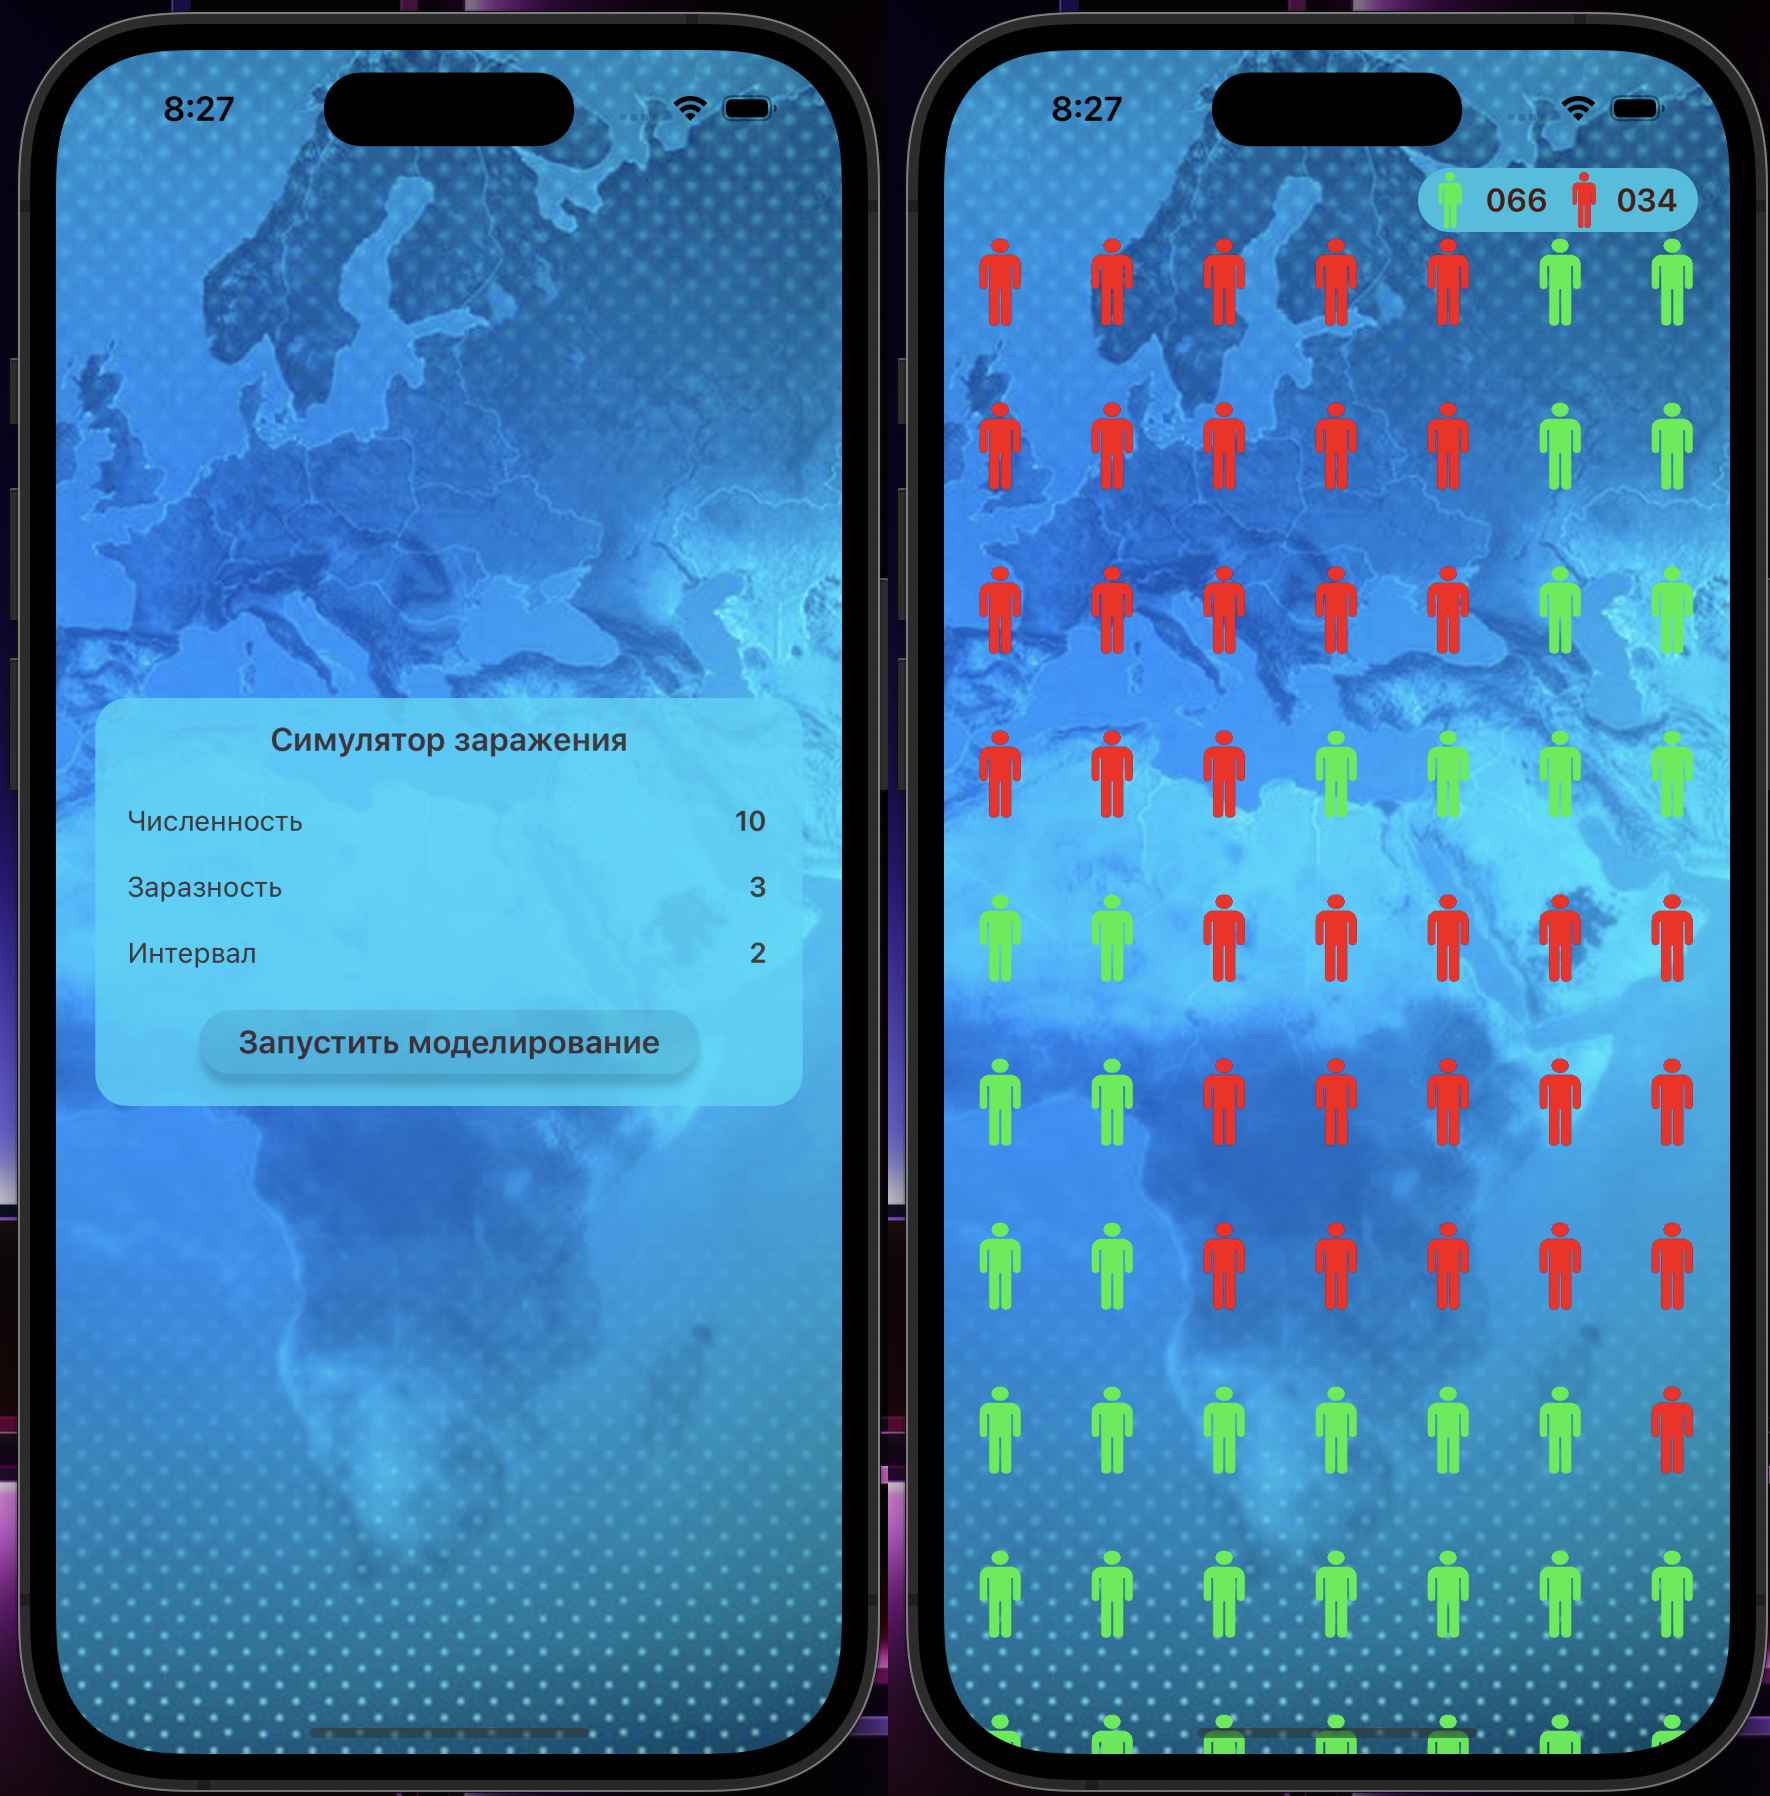
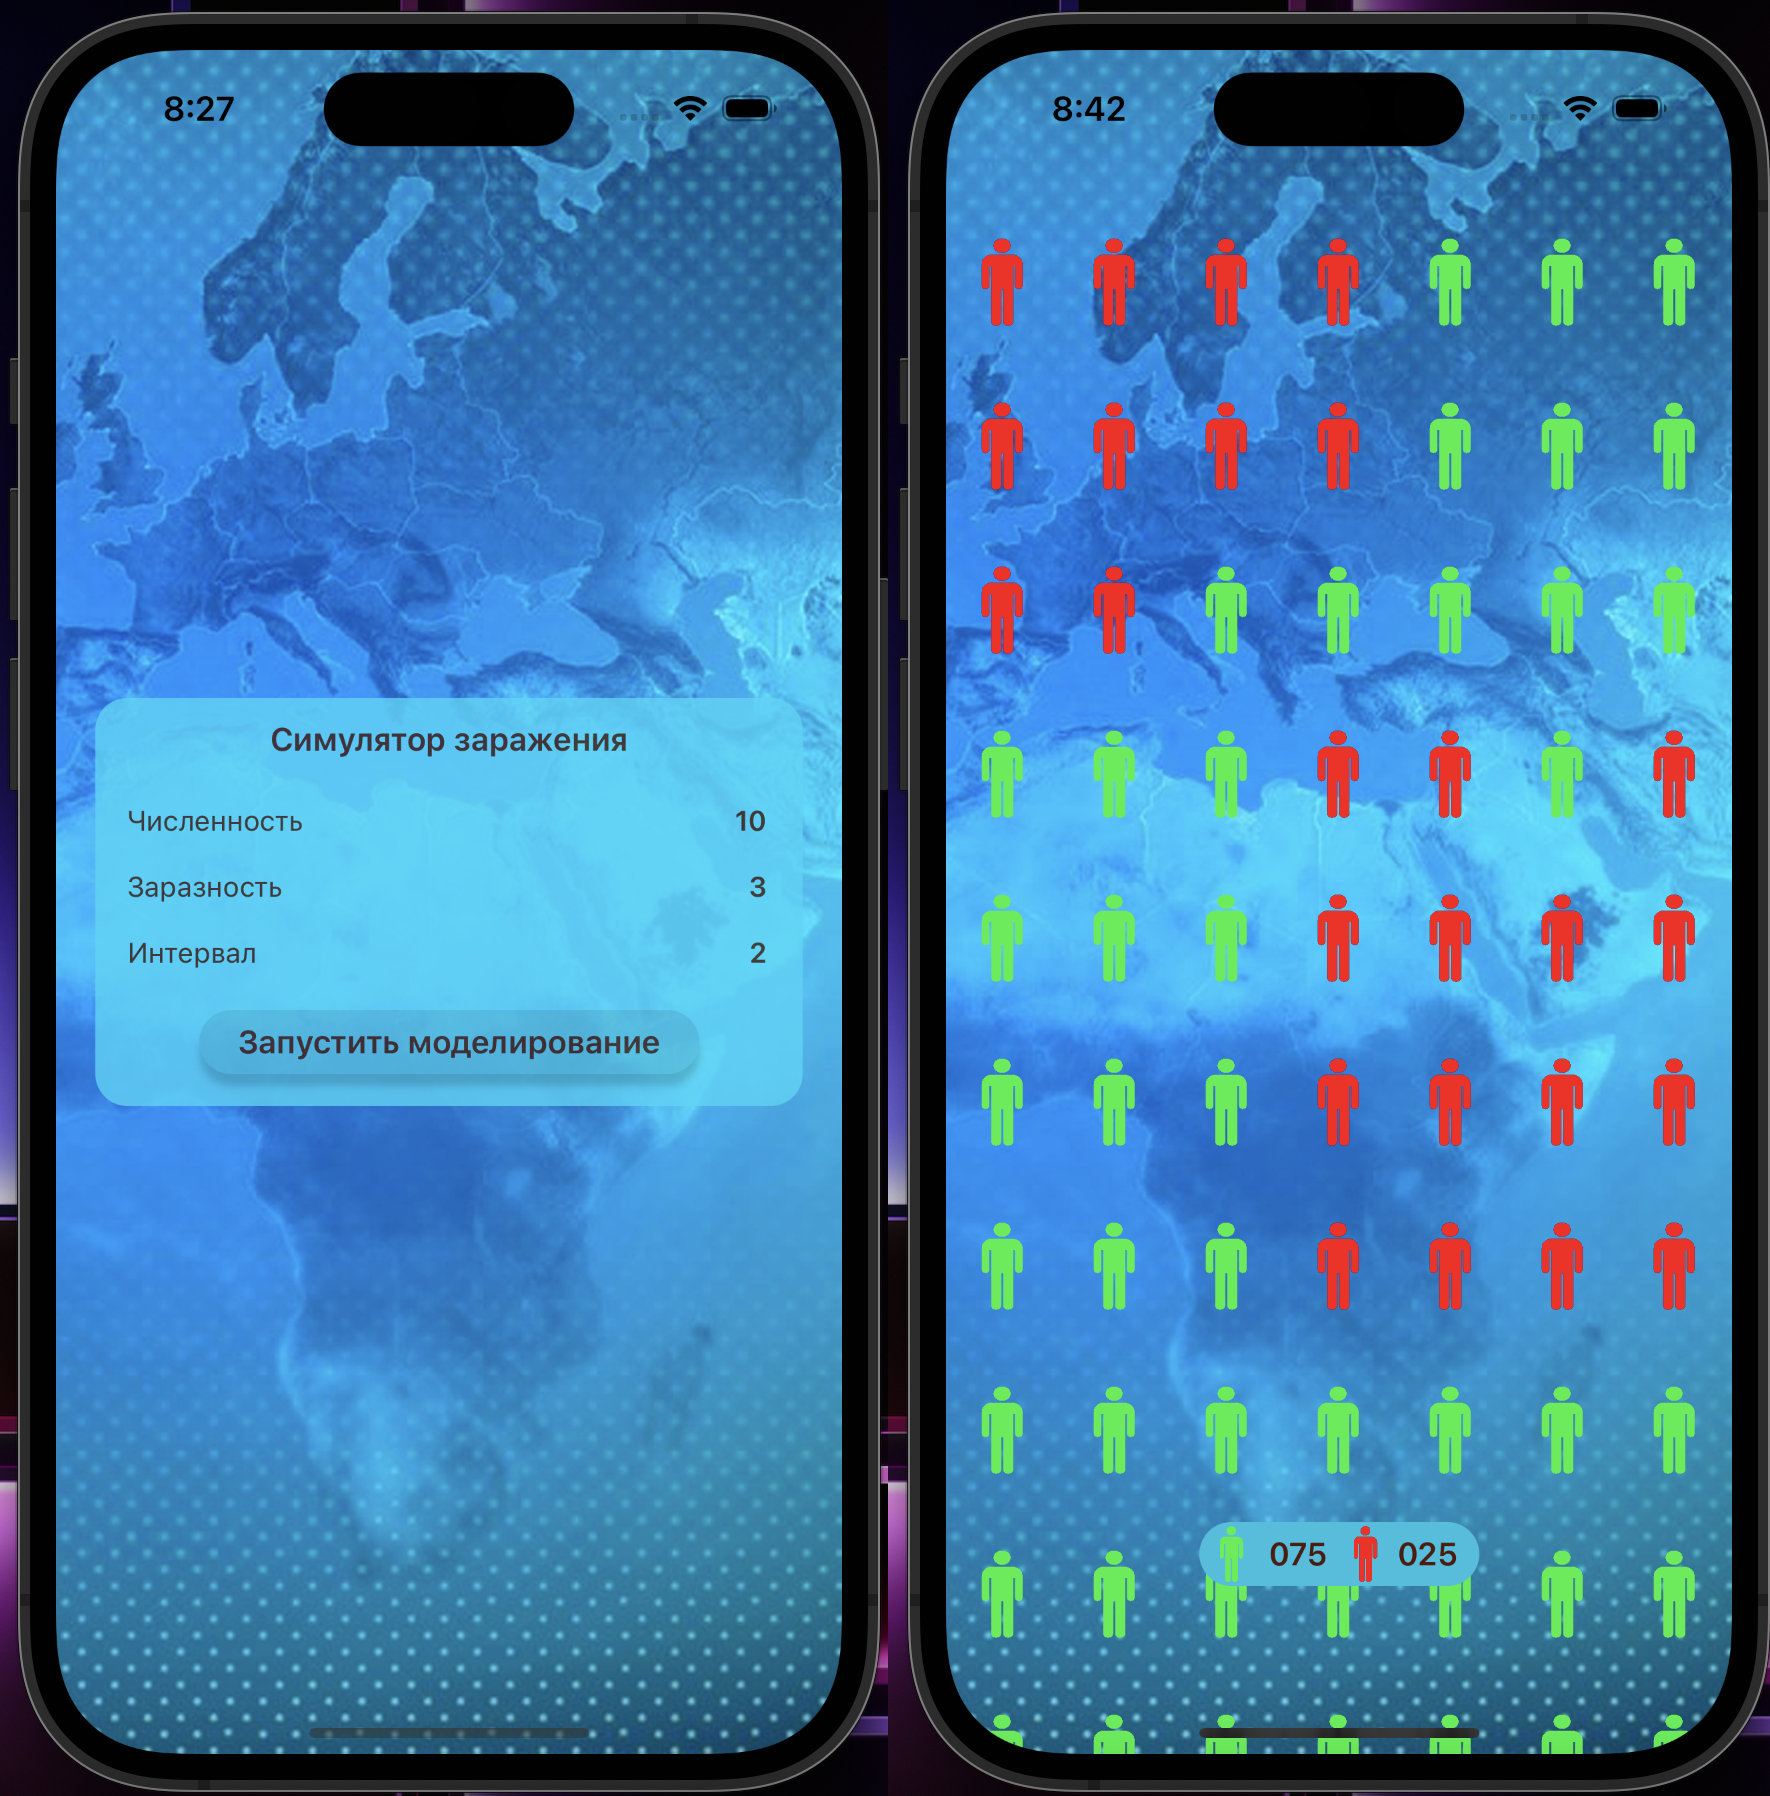
relocates counts at simulate screen, change pic for project

diff --git a/Plague/Modules/Simulate/SimulateViewController.swift b/Plague/Modules/Simulate/SimulateViewController.swift
@@ -138,12 +138,12 @@ class SimulateViewController: UIViewController, SimulateViewProtocol {
                 equalTo: view.bottomAnchor
             ),
             
-            countContainerView.topAnchor.constraint(
-                equalTo: view.safeAreaLayoutGuide.topAnchor
+            countContainerView.bottomAnchor.constraint(
+                equalTo: view.safeAreaLayoutGuide.bottomAnchor,
+                constant: -50
             ),
-            countContainerView.trailingAnchor.constraint(
-                equalTo: view.trailingAnchor,
-                constant: -16
+            countContainerView.centerXAnchor.constraint(
+                equalTo: view.centerXAnchor
             ),
             countContainerView.widthAnchor.constraint(
                 equalToConstant: 140
